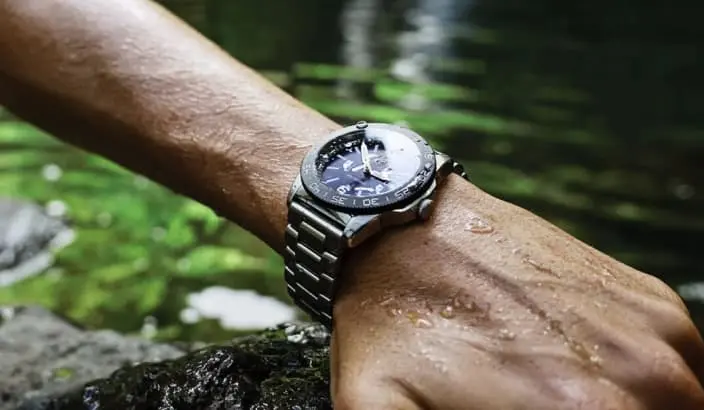
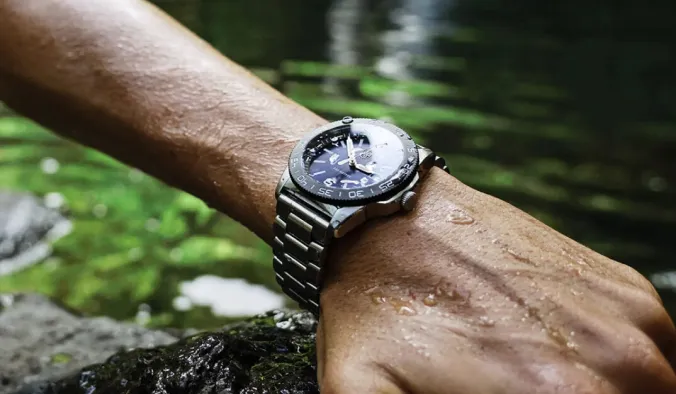
added all hero.css

diff --git a/src/partials/hero.html b/src/partials/hero.html
@@ -5,20 +5,125 @@
       <div class="mySwiper">
         <div class="swiper-wrapper">
           <div class="swiper-slide">
-            <img src="../img/hero/226x190@x1.webp" alt="darkgreen gray watch" />
+            <picture>
+              <source
+                media="(min-width: 768px)"
+                srcset="
+                  ../img/slider/tablet-desk-348x233/1@1x.webp 1x,
+                  ../img/slider/tablet-desk-348x233/1@2x.webp 2x
+                "
+                type="image/webp"
+              />
+              <source
+                media="(max-width: 767px)"
+                srcset="
+                  ../img/slider/mobile-226x190/1@1x.webp 1x,
+                  ../img/slider/mobile-226x190/1@2x.webp 2x
+                "
+                type="image/webp"
+              />
+              <img
+                src="../img/slider/mobile-226x190/1@1x.webp"
+                alt="darkgreen gray watch"
+              />
+            </picture>
           </div>
           <!-- <div class="swiper-slide">
-          <img src="" alt="" width="266" height="200" />
-        </div>
-        <div class="swiper-slide">
-          <img src="" alt="" width="266" height="200" />
-        </div>
-        <div class="swiper-slide">
-          <img src="" alt="" width="266" height="200" />
-        </div>
-        <div class="swiper-slide">
-          <img src="" alt="" width="266" height="200" />
-        </div> -->
+            <picture>
+              <source
+                media="(min-width: 768px)"
+                srcset="
+                  ../img/slider/tablet-desk-348x233/2@1x.webp 1x,
+                  ../img/slider/tablet-desk-348x233/2@2x.webp 2x
+                "
+                type="image/webp"
+              />
+              <source
+                media="(max-width: 767px)"
+                srcset="
+                  ../img/slider/mobile-226x190/2@1x.webp 1x,
+                  ../img/slider/mobile-226x190/2@2x.webp 2x
+                "
+                type="image/webp"
+              />
+              <img
+                src="../img/slider/mobile-226x190/2@1x.webp"
+                alt="white watch with a black strap"
+              />
+            </picture>
+          </div> -->
+          <!-- <div class="swiper-slide">
+            <picture>
+              <source
+                media="(min-width: 768px)"
+                srcset="
+                  ../img/slider/tablet-desk-348x233/3@1x.webp 1x,
+                  ../img/slider/tablet-desk-348x233/3@2x.webp 2x
+                "
+                type="image/webp"
+              />
+              <source
+                media="(max-width: 767px)"
+                srcset="
+                  ../img/slider/mobile-226x190/3@1x.webp 1x,
+                  ../img/slider/mobile-226x190/3@2x.webp 2x
+                "
+                type="image/webp"
+              />
+              <img
+                src="../img/slider/mobile-226x190/3@1x.webp"
+                alt="gray watch with a black screen"
+              />
+            </picture>
+          </div> -->
+          <!-- <div class="swiper-slide">
+            <picture>
+              <source
+                media="(min-width: 768px)"
+                srcset="
+                  ../img/slider/tablet-desk-348x233/4@1x.webp 1x,
+                  ../img/slider/tablet-desk-348x233/4@2x.webp 2x
+                "
+                type="image/webp"
+              />
+              <source
+                media="(max-width: 767px)"
+                srcset="
+                  ../img/slider/mobile-226x190/4@1x.webp 1x,
+                  ../img/slider/mobile-226x190/4@2x.webp 2x
+                "
+                type="image/webp"
+              />
+              <img
+                src="../img/slider/mobile-226x190/4@1x.webp"
+                alt="gray-black watch with a black strap"
+              />
+            </picture>
+          </div> -->
+          <!-- <div class="swiper-slide">
+            <picture>
+              <source
+                media="(min-width: 768px)"
+                srcset="
+                  ../img/slider/tablet-desk-348x233/5@1x.webp 1x,
+                  ../img/slider/tablet-desk-348x233/5@2x.webp 2x
+                "
+                type="image/webp"
+              />
+              <source
+                media="(max-width: 767px)"
+                srcset="
+                  ../img/slider/mobile-226x190/5@1x.webp 1x,
+                  ../img/slider/mobile-226x190/5@2x.webp 2x
+                "
+                type="image/webp"
+              />
+              <img
+                src="../img/slider/mobile-226x190/5@1x.webp"
+                alt="gray watch with a dark-blue screen"
+              />
+            </picture>
+          </div> -->
         </div>
       </div>
       <div class="swiper-buttons">

diff --git a/src/css/hero.css b/src/css/hero.css
@@ -3,20 +3,26 @@
 }
 
 @media screen and (min-width: 768px) {
+  .hero {
+    padding-top: 60px;
+  }
+}
+
+@media screen and (min-width: 768px) {
   .hero-container {
+    position: relative;
     display: flex;
     flex-wrap: wrap;
     align-items: center;
   }
 }
 
-/* @media screen and (min-width: 1280px) {
+@media screen and (min-width: 1280px) {
   .hero-container {
-    display: flex;
-    flex-wrap: wrap;
-    align-items: center;
+    align-items: end;
+    column-gap: 64px;
   }
-} */
+}
 
 .hero-title {
   margin-bottom: 60px;
@@ -34,34 +40,59 @@
   }
 }
 
+@media screen and (min-width: 768px) {
+  .hero-title {
+    width: 750px;
+  }
+}
+
 .swiper {
-  max-width: 266px;
   margin-bottom: 40px;
 }
 
 @media screen and (min-width: 768px) {
   .swiper {
-    width: 436px;
+    max-width: 436px;
+  }
+}
+
+@media screen and (min-width: 1280px) {
+  .swiper {
+    margin: 0;
   }
 }
 
 .swiper-wrapper {
   margin-bottom: 20px;
   background-color: var(--green-color);
-}
-
-.swiper-slide {
+  width: 266px;
+  height: 200px;
   display: flex;
   align-items: center;
   justify-content: center;
 }
 
+@media screen and (min-width: 768px) {
+  .swiper-wrapper {
+    width: 436px;
+    height: 255px;
+  }
+}
+
 .swiper-buttons {
   display: flex;
   align-items: end;
+  width: 266px;
 }
 
-.button-prev {
+@media screen and (min-width: 768px) {
+  .swiper-buttons {
+    width: 436px;
+  }
+}
+
+.button-prev,
+.button-next {
   display: flex;
   align-items: center;
   justify-content: center;
@@ -72,30 +103,28 @@
   border-radius: 8px;
 }
 
-.button-prev-icon {
+.button-prev-icon,
+.button-next-icon {
   fill: rgba(255, 255, 255, 0.5);
 }
 
-.button-next {
-  display: flex;
-  align-items: center;
-  justify-content: center;
-  width: 32px;
-  height: 32px;
-  border: 1px solid #ffffff;
-  border-radius: 8px;
+.button-prev:hover,
+.button-prev:focus,
+.button-next:hover,
+.button-next:focus {
+  border-color: var(--white-color);
 }
 
-.button-next-icon {
+.button-prev:hover > .button-prev-icon,
+.button-prev:focus > .button-prev-icon,
+.button-next:hover > .button-next-icon,
+.button-next:focus > .button-next-icon {
   fill: var(--white-color);
 }
 
 .swiper-numbers {
   margin-left: auto;
   color: var(--white-color);
-}
-
-.swiper-number {
 }
 
 .swiper-number::after {
@@ -110,14 +139,22 @@
 @media screen and (min-width: 768px) {
   .swiper-number::after {
     width: 40px;
-    margin: 9px 6px;
   }
 }
 
 .hero-descr {
   margin-left: auto;
   margin-bottom: 40px;
-  max-width: 248px;
+  width: 248px;
   font-weight: 300;
   color: var(--white-color);
+}
+
+@media screen and (min-width: 1280px) {
+  .hero-descr {
+    position: absolute;
+    top: 0;
+    right: 0;
+    width: 282px;
+  }
 }
